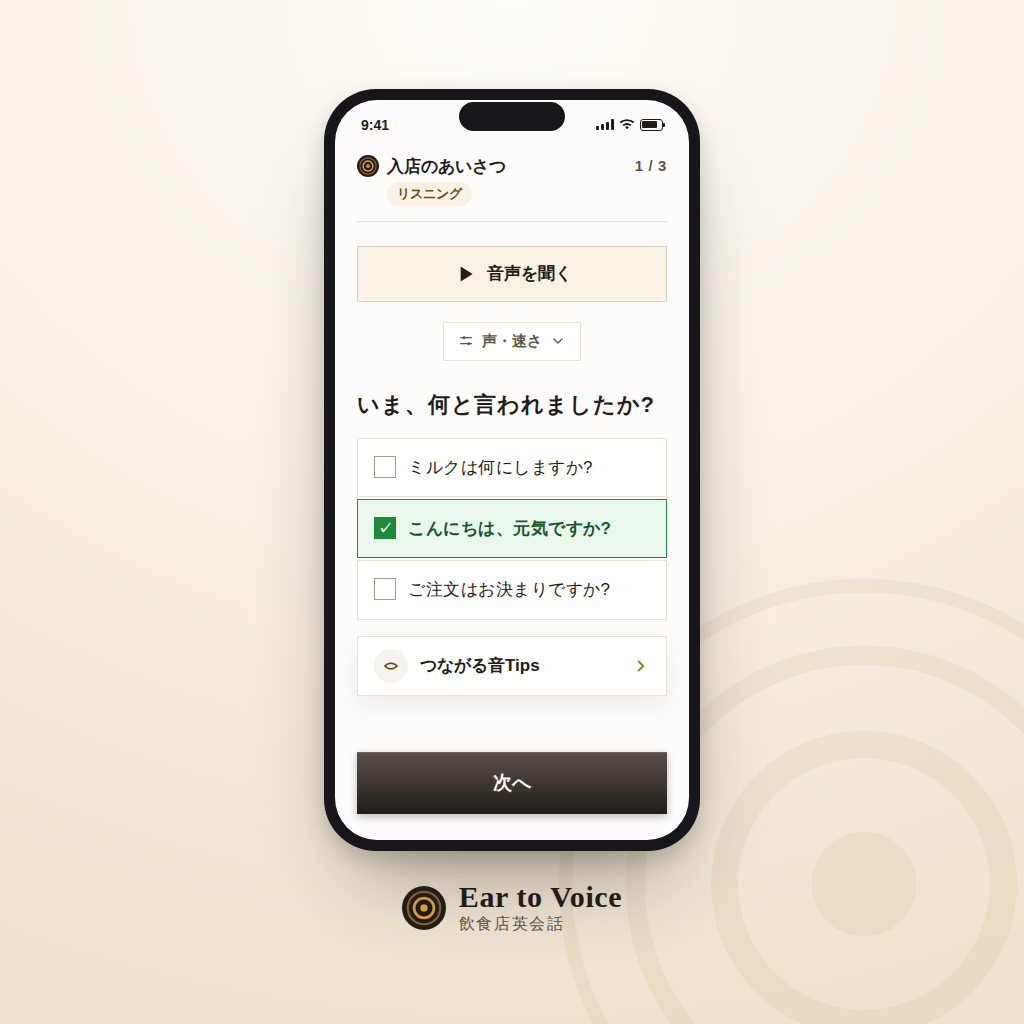
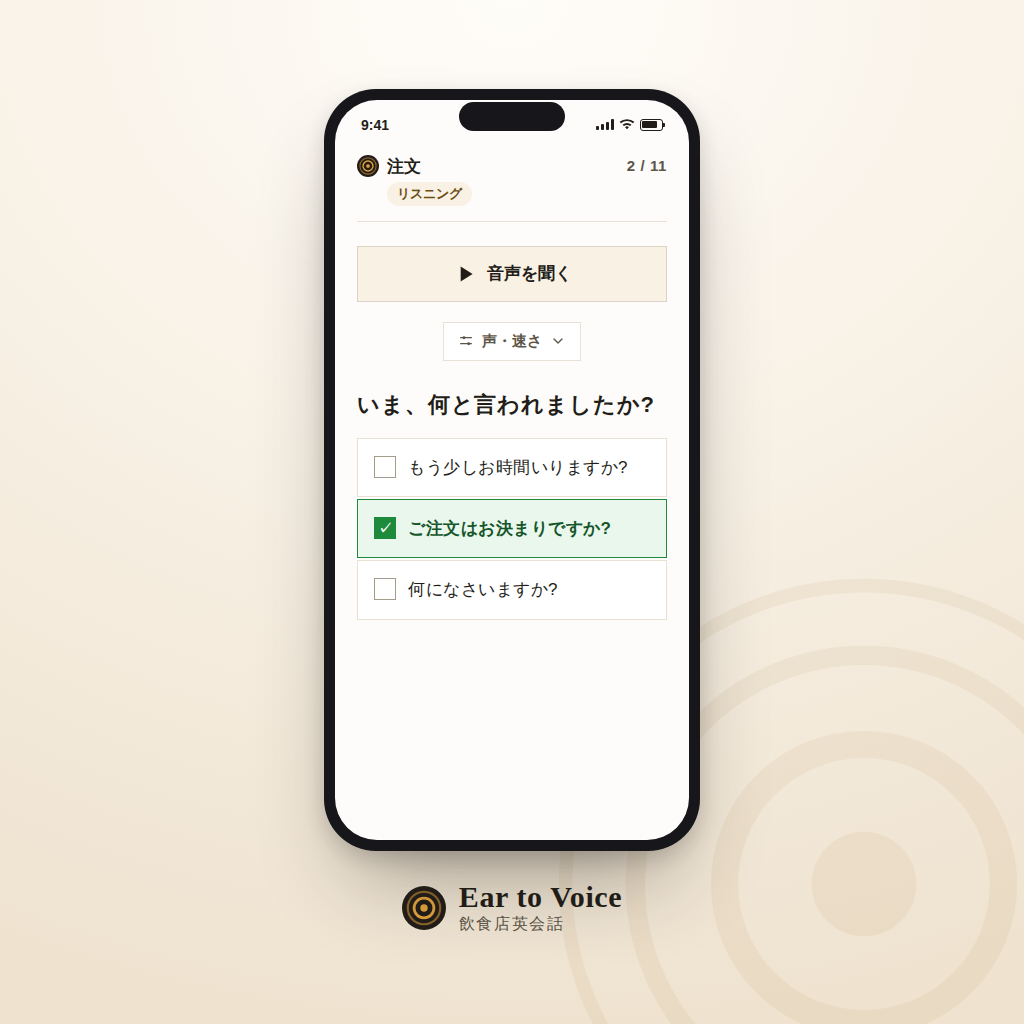
Stripe の商品画像: 1個目の形に戻し、注文の場面にする
★HARU様「1個目のがいいです。注文の準備に関する文章にして。」

・形: 3案お見せしたうちの1つ目(コツのたたみと「次へ」を入れない、
  聞き取りの問いと3択だけ)に戻した。下に余白が残る形。
・中身: 「入店のあいさつ」→「注文」の場面へ。映っているのは
  コース本体の `## 注文 (Taking Your Order)` の2問目
  (店員の Are you ready to order? を聞いて選ぶところ)。
  選択肢の3つとも、本体に実際にある文を使っている:
    もう少しお時間いりますか?      Do you need another minute?
    ご注文はお決まりですか?(正解)  Are you ready to order?
    何になさいますか?              What would you like?
  作り話は1つも入れていない(scripts/dump-phrases.js で確かめた)。
  右上の「2 / 11」も、この場面の実際の問題数に合わせてある。

選択肢が狭い所で語の途中で折れていないこと、画面からはみ出していない
ことを実測して確かめた。3つとも1行に収まっている。

  eatout-product-2048.png  0.91MB ← これをStripeに登録する
  eatout-product-1024.png  0.33MB

Claude-Session: https://claude.ai/code/session_01NgwvBjTeek5MrFES77f5Ab

diff --git a/assets/stripe/eatout-product.html b/assets/stripe/eatout-product.html
@@ -35,7 +35,7 @@ body{width:1024px;height:1024px;font-family:var(--gothic);
 .batt::after{content:'';position:absolute;right:-3.2px;top:3.4px;width:2px;height:4px;background:var(--ink);border-radius:0 1px 1px 0}
 .batt i{display:block;height:100%;width:78%;background:var(--ink);border-radius:1px}
 
-.body{padding:22px 22px 26px;flex:1;display:flex;flex-direction:column}
+.body{padding:22px 22px 0;flex:1;display:flex;flex-direction:column}
 /* ヘッダー(◎ + 場面名 + 札 + 数字) */
 .head{display:flex;align-items:flex-start;justify-content:space-between;gap:8px}
 .cat{display:flex;align-items:center;gap:8px}
@@ -67,24 +67,6 @@ body{width:1024px;height:1024px;font-family:var(--gothic);
 .opt.ok .box{background:#1D8A3C;border-color:#1D8A3C}
 
 /* ---- 携帯の下のブランド ---- */
-/* コツのたたみ(本体の .tip-acc)。白いカード+丸いアイコン+見出し+ >。
-   ★hintBtn(金の丸+2行)は本体では定義だけで一度も呼ばれていない部品
-     だったので使わない。買う人が実際に見る形だけを写す。 */
-.tip{display:flex;align-items:center;justify-content:space-between;gap:10px;width:100%;
-  margin-top:16px;margin-bottom:16px;background:#fff;border:1.5px solid var(--line);
-  padding:12px 16px;box-shadow:0 10px 26px rgba(34,29,24,.07)}
-.tip-l{display:flex;align-items:center;gap:12px;min-width:0}
-.tip-ic{flex:none;width:34px;height:34px;border-radius:50%;background:#F4F3F0;color:var(--accent-text);
-  display:flex;align-items:center;justify-content:center}
-.tip-ic svg{width:18px;height:18px}
-.tip b{font-size:17px;font-weight:700;color:var(--ink)}
-.tip-chev{flex:none;width:18px;height:18px;color:var(--accent-line)}
-/* 次へ(本体の .btn-primary)。角ゼロ・濃い地に紙色の字。 */
-.next{display:flex;align-items:center;justify-content:center;width:100%;margin-top:auto;padding-top:0;
-  min-height:50px;padding:13px 20px;color:var(--paper);
-  background:linear-gradient(180deg,#5A514B 0%,#221D18 100%);
-  box-shadow:0 3px 8px rgba(34,29,24,.28), inset 0 1px 0 rgba(255,255,255,.10);
-  font-size:19px;font-weight:700;line-height:1.9}
 .brand{display:flex;align-items:center;gap:13px}
 .brand svg{width:44px;height:44px;flex:none}
 .brand-t{display:flex;flex-direction:column;gap:2px}
@@ -122,9 +104,9 @@ body{width:1024px;height:1024px;font-family:var(--gothic);
               <circle cx="16" cy="16" r="7.2" fill="none" stroke="#E2A33D" stroke-width="2"/>
               <circle cx="16" cy="16" r="11.8" fill="none" stroke="#E2A33D" stroke-width="1.6" opacity=".55"/>
             </svg>
-            <span class="cat-name">入店のあいさつ</span>
+            <span class="cat-name">注文</span>
           </span>
-          <span class="prog">1 / 3</span>
+          <span class="prog">2 / 11</span>
         </div>
         <span class="kind">リスニング</span>
         <div class="hr"></div>
@@ -147,20 +129,11 @@ body{width:1024px;height:1024px;font-family:var(--gothic);
 
         <p class="q">いま、何と言われましたか?</p>
         <div class="opts">
-          <div class="opt"><span class="box"></span><span>ミルクは何にしますか?</span></div>
-          <div class="opt ok"><span class="box">✓</span><span>こんにちは、元気ですか?</span></div>
-          <div class="opt"><span class="box"></span><span>ご注文はお決まりですか?</span></div>
+          <div class="opt"><span class="box"></span><span>もう少しお時間いりますか?</span></div>
+          <div class="opt ok"><span class="box">✓</span><span>ご注文はお決まりですか?</span></div>
+          <div class="opt"><span class="box"></span><span>何になさいますか?</span></div>
         </div>
 
-        <div class="tip">
-          <span class="tip-l">
-            <span class="tip-ic"><svg viewBox="0 0 24 24" fill="none" stroke="currentColor" stroke-width="2" stroke-linecap="round" stroke-linejoin="round"><path d="M4 12c4-5 12-5 16 0"/><path d="M4 12c4 5 12 5 16 0"/></svg></span>
-            <b>つながる音Tips</b>
-          </span>
-          <svg class="tip-chev" viewBox="0 0 24 24" fill="none" stroke="currentColor" stroke-width="2.4" stroke-linecap="round" stroke-linejoin="round"><polyline points="9 6 15 12 9 18"/></svg>
-        </div>
-
-        <div class="next">次へ</div>
       </div>
     </div>
   </div>
